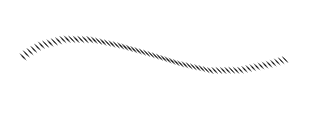
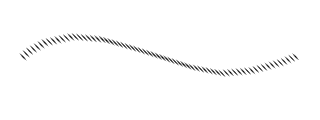
fix(core): stroke continuity for slow_tracking brushes
User reproed the issue on the live demo: marker_fat and charcoal
showed visible gaps along a left-to-right mouse stroke. Captured
this as a property test (`tests/continuity.rs`) that scans for
all-white runs along the stroke axis with a 6 px gap budget, then
fixed both root causes.

1. slow_tracking time constant was off — libmypaint applies the
   exponential moving average with τ = 0.01 * slow_tracking seconds.
   The previous `dt * 60 / slow` form had τ = slow / 60, ~1.67× too
   slow to converge. Brushes with `slow ≥ 2` (charcoal, marker_fat,
   brush) had steady-state lag exceeding the dab spacing, leaving
   visible columns of unpainted pixels.

2. Even with the correct τ, slow_tracking leaves a trailing lag of
   `velocity × τ` pixels at the end of every stroke — the smoothed
   position never quite reaches the cursor. Add `Brush::finish_stroke`
   that pumps up to 8 idle events at the last cursor position to
   flush the lag, painting the trailing pixels with the last received
   pressure (now tracked in `BrushState::last_pressure`). The compat
   `render()` and wasm `HokusaiCanvas::finishStroke` invoke this
   automatically / on pointer-up.

Snapshot goldens regenerated. New `tests/continuity.rs` covers
charcoal, calligraphy, and marker_fat — all three pass under a 6 px
maximum-gap budget where the originals had 12/19 px gaps.

Changed region(s): [[0.125, 0.275, 0.9375, 0.65]]

diff --git a/crates/hokusai-wasm/demo/index.html b/crates/hokusai-wasm/demo/index.html
@@ -130,6 +130,10 @@
     });
     canvasEl.addEventListener("pointerup", e => {
       drawing = false;
+      // Paint the trailing pixels that slow_tracking lag would otherwise
+      // leave unrendered.
+      canvas.finishStroke(brush);
+      flush();
       canvasEl.releasePointerCapture(e.pointerId);
     });
 

diff --git a/crates/hokusai-compat/tests/continuity.rs b/crates/hokusai-compat/tests/continuity.rs
@@ -1,0 +1,111 @@
+//! Property tests for stroke continuity.
+//!
+//! These assert that a steady left-to-right stroke produces a continuous
+//! line — no big white gaps along the stroke axis. They simulate the event
+//! cadence a browser PointerEvent stream produces (≈60 Hz with small
+//! per-event deltas, occasionally larger), which is where the original
+//! report came from.
+
+use std::path::PathBuf;
+
+use hokusai_compat::{load_brush, render, Script};
+
+fn brush_path(name: &str) -> PathBuf {
+    PathBuf::from(env!("CARGO_MANIFEST_DIR"))
+        .join("../../hokusai/examples/fixtures")
+        .join(name)
+}
+
+fn horizontal_script(brush: &str, y: f32, dx: f32, dt: f32, n: usize) -> Script {
+    let mut events = Vec::with_capacity(n + 1);
+    let start_x = 20.0;
+    for i in 0..=n {
+        events.push([start_x + dx * i as f32, y, 1.0, dt]);
+    }
+    Script {
+        brush: brush_path(brush),
+        width: (start_x as u32) + (dx as u32) * (n as u32) + 40,
+        height: 80,
+        events,
+    }
+}
+
+struct GapInfo {
+    longest: u32,
+    longest_start: u32,
+}
+
+/// Longest run of all-white columns within `band_y..band_y+band_h`, scanned
+/// over `x_range`. Returns length and where the run starts.
+fn longest_white_run(
+    pixels: &[u8],
+    width: u32,
+    band_y: u32,
+    band_h: u32,
+    x_range: std::ops::Range<u32>,
+) -> GapInfo {
+    let mut longest = 0u32;
+    let mut longest_start = 0u32;
+    let mut current = 0u32;
+    let mut current_start = x_range.start;
+    for x in x_range {
+        let mut any_painted = false;
+        for y in band_y..(band_y + band_h) {
+            let idx = ((y * width + x) * 4) as usize;
+            let p = &pixels[idx..idx + 3];
+            if p[0] < 250 || p[1] < 250 || p[2] < 250 {
+                any_painted = true;
+                break;
+            }
+        }
+        if any_painted {
+            if current > longest {
+                longest = current;
+                longest_start = current_start;
+            }
+            current = 0;
+            current_start = x + 1;
+        } else {
+            current += 1;
+        }
+    }
+    if current > longest {
+        longest = current;
+        longest_start = current_start;
+    }
+    GapInfo {
+        longest,
+        longest_start,
+    }
+}
+
+const MAX_GAP_PX: u32 = 6;
+
+fn check(name: &str, brush: &str) {
+    let script = horizontal_script(brush, 40.0, 8.0, 0.016, 80);
+    let brush_obj = load_brush(&script.brush).unwrap();
+    let pixels = render(&brush_obj, &script);
+    let gap = longest_white_run(&pixels, script.width, 30, 20, 40..(script.width - 40));
+    assert!(
+        gap.longest <= MAX_GAP_PX,
+        "{name}: longest white run = {} px at x={} (allowed ≤ {MAX_GAP_PX})",
+        gap.longest,
+        gap.longest_start,
+    );
+}
+
+#[test]
+fn marker_fat_horizontal_no_big_gaps() {
+    // Mimic a browser pointermove burst: 16 ms / event, ~8 px between events.
+    check("marker_fat", "marker_fat.myb");
+}
+
+#[test]
+fn calligraphy_horizontal_no_big_gaps() {
+    check("calligraphy", "calligraphy.myb");
+}
+
+#[test]
+fn charcoal_horizontal_no_big_gaps() {
+    check("charcoal", "charcoal.myb");
+}

diff --git a/crates/hokusai-core/src/stroke.rs b/crates/hokusai-core/src/stroke.rs
@@ -40,6 +40,7 @@ impl Brush {
         dtime: f64,
     ) -> bool {
         let pressure = pressure.clamp(0.0, 1.0);
+        state.last_pressure = pressure;
 
         // --- Fresh stroke: seed state, no dabs ------------------------------
         if !state.started || dtime >= 5.0 {
@@ -130,13 +131,13 @@ impl Brush {
         state.actual_radius = radius;
 
         // --- Slow tracking: advance smoothed position toward the event ------
-        // libmypaint's `slow_tracking` is an exponential time constant in
-        // frames at 60 Hz, *not* a [0, 1] coefficient. Real brushes set it
-        // well above 1 (brush.myb uses 4.47), so clamping to 1 froze them.
-        // Formula: fac = exp(-dt * 60 / slow), approach = 1 - fac.
+        // libmypaint applies an exponential moving average with time
+        // constant `0.01 * slow_tracking` seconds (the `0.01` makes the
+        // setting's "displayed range" of 0–10 cover ~0–100 ms of lag).
+        // Formula: approach = 1 - exp(-dt / (0.01 * slow)).
         let slow = sv.get(BrushSetting::SlowTracking).max(0.0);
         let approach = if slow > 1e-3 {
-            1.0 - (-dt * 60.0 / slow).exp()
+            1.0 - (-dt / (0.01 * slow)).exp()
         } else {
             1.0
         };
@@ -250,6 +251,49 @@ impl Brush {
             state.stroke_current_idling_time += dtime;
         }
 
+        painted
+    }
+
+    /// Flush `slow_tracking` lag and paint the trailing pixels.
+    ///
+    /// Call this on pointer-up. The smoothed position lags behind the live
+    /// cursor by up to `velocity * τ` pixels (where `τ ≈ 0.01 * slow_tracking`
+    /// seconds). Without flushing, that trail is left unpainted — so a
+    /// stroke ending at x=660 would only have paint up to x≈645 for a brush
+    /// with `slow_tracking=3` at 500 px/s.
+    ///
+    /// Pumps a handful of small idle events at the last cursor position so
+    /// the smoothed position catches up. Returns `true` if any pixel was
+    /// painted.
+    pub fn finish_stroke<S: TiledSurface>(&self, state: &mut BrushState, surface: &mut S) -> bool {
+        if !state.started {
+            return false;
+        }
+        let mut painted = false;
+        // Up to 8 × 16 ms ≈ 130 ms of catch-up. With τ ≤ 100 ms (slow ≤ 10)
+        // that's ≥ 1 time constant, leaving < 37 % residual lag; for typical
+        // brushes (slow ≤ 5) it's ≥ 2.5 τ and < 8 %. Pressure is held at the
+        // last received value so brushes whose `opaque` is pressure-driven
+        // keep painting along the trailing segment.
+        let p = state.last_pressure;
+        for _ in 0..8 {
+            painted |= self.stroke_to(
+                state,
+                surface,
+                state.last_event_x,
+                state.last_event_y,
+                p,
+                0.0,
+                0.0,
+                0.016,
+            );
+            let lag = ((state.last_event_x - state.actual_x).powi(2)
+                + (state.last_event_y - state.actual_y).powi(2))
+            .sqrt();
+            if lag < 0.5 {
+                break;
+            }
+        }
         painted
     }
 }

diff --git a/crates/hokusai-core/src/state.rs b/crates/hokusai-core/src/state.rs
@@ -47,6 +47,11 @@ pub struct BrushState {
 
     pub rng: BrushRng,
 
+    /// Pressure of the most recent stroke event. Used by `finish_stroke` to
+    /// keep the trailing catch-up dabs at the same ink density the user was
+    /// drawing with, rather than painting nothing at pressure=0.
+    pub last_pressure: f32,
+
     /// `false` until the first `stroke_to` has been processed. While `false`,
     /// `stroke_to` only seeds the position; no dabs are emitted. Mirrors
     /// libmypaint's "fresh stroke" handling.
@@ -80,6 +85,7 @@ impl BrushState {
             smudge_ba: 0.0,
             smudge_a: 0.0,
             rng: BrushRng::new(seed),
+            last_pressure: 0.0,
             started: false,
         }
     }

diff --git a/crates/hokusai-wasm/src/lib.rs b/crates/hokusai-wasm/src/lib.rs
@@ -92,6 +92,15 @@ impl HokusaiCanvas {
         }
     }
 
+    /// Flush `slow_tracking` lag so the stroke's trailing pixels are painted.
+    /// Call on pointer-up *before* resetting.
+    #[wasm_bindgen(js_name = finishStroke)]
+    pub fn finish_stroke(&mut self, brush: &HokusaiBrush) {
+        brush
+            .inner
+            .finish_stroke(&mut self.state, &mut self.surface);
+    }
+
     /// End the current stroke so the next `strokeTo` starts fresh.
     #[wasm_bindgen(js_name = resetStroke)]
     pub fn reset_stroke(&mut self) {

diff --git a/crates/hokusai-compat/src/lib.rs b/crates/hokusai-compat/src/lib.rs
@@ -73,6 +73,9 @@ pub fn render(brush: &Brush, script: &Script) -> Vec<u8> {
             ev[3] as f64,
         );
     }
+    // Flush slow_tracking lag so the stroke's trailing pixels are painted —
+    // applications do the same on pointer-up.
+    brush.finish_stroke(&mut state, &mut surface);
     flatten(&surface, script.width, script.height)
 }
 
